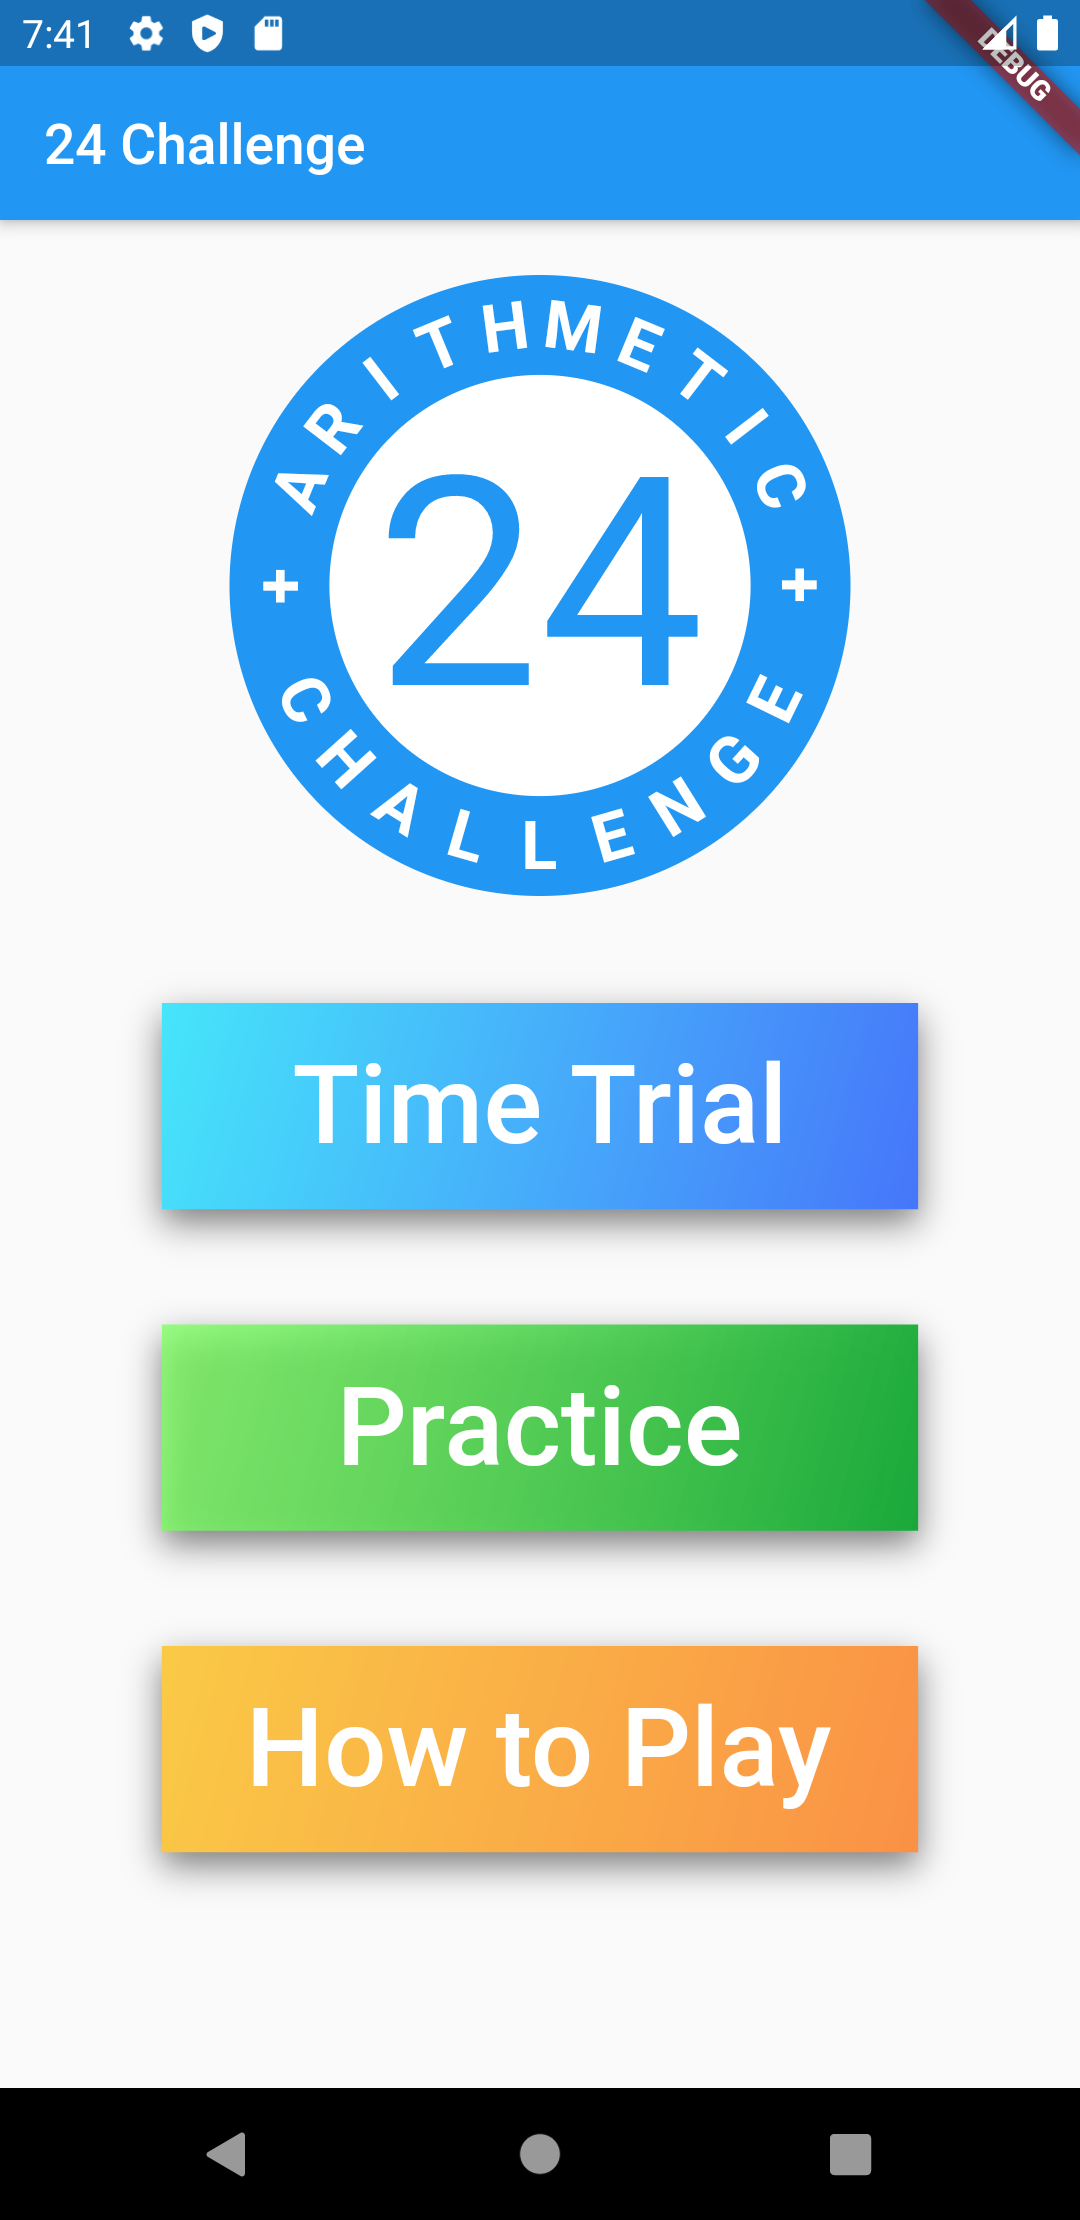
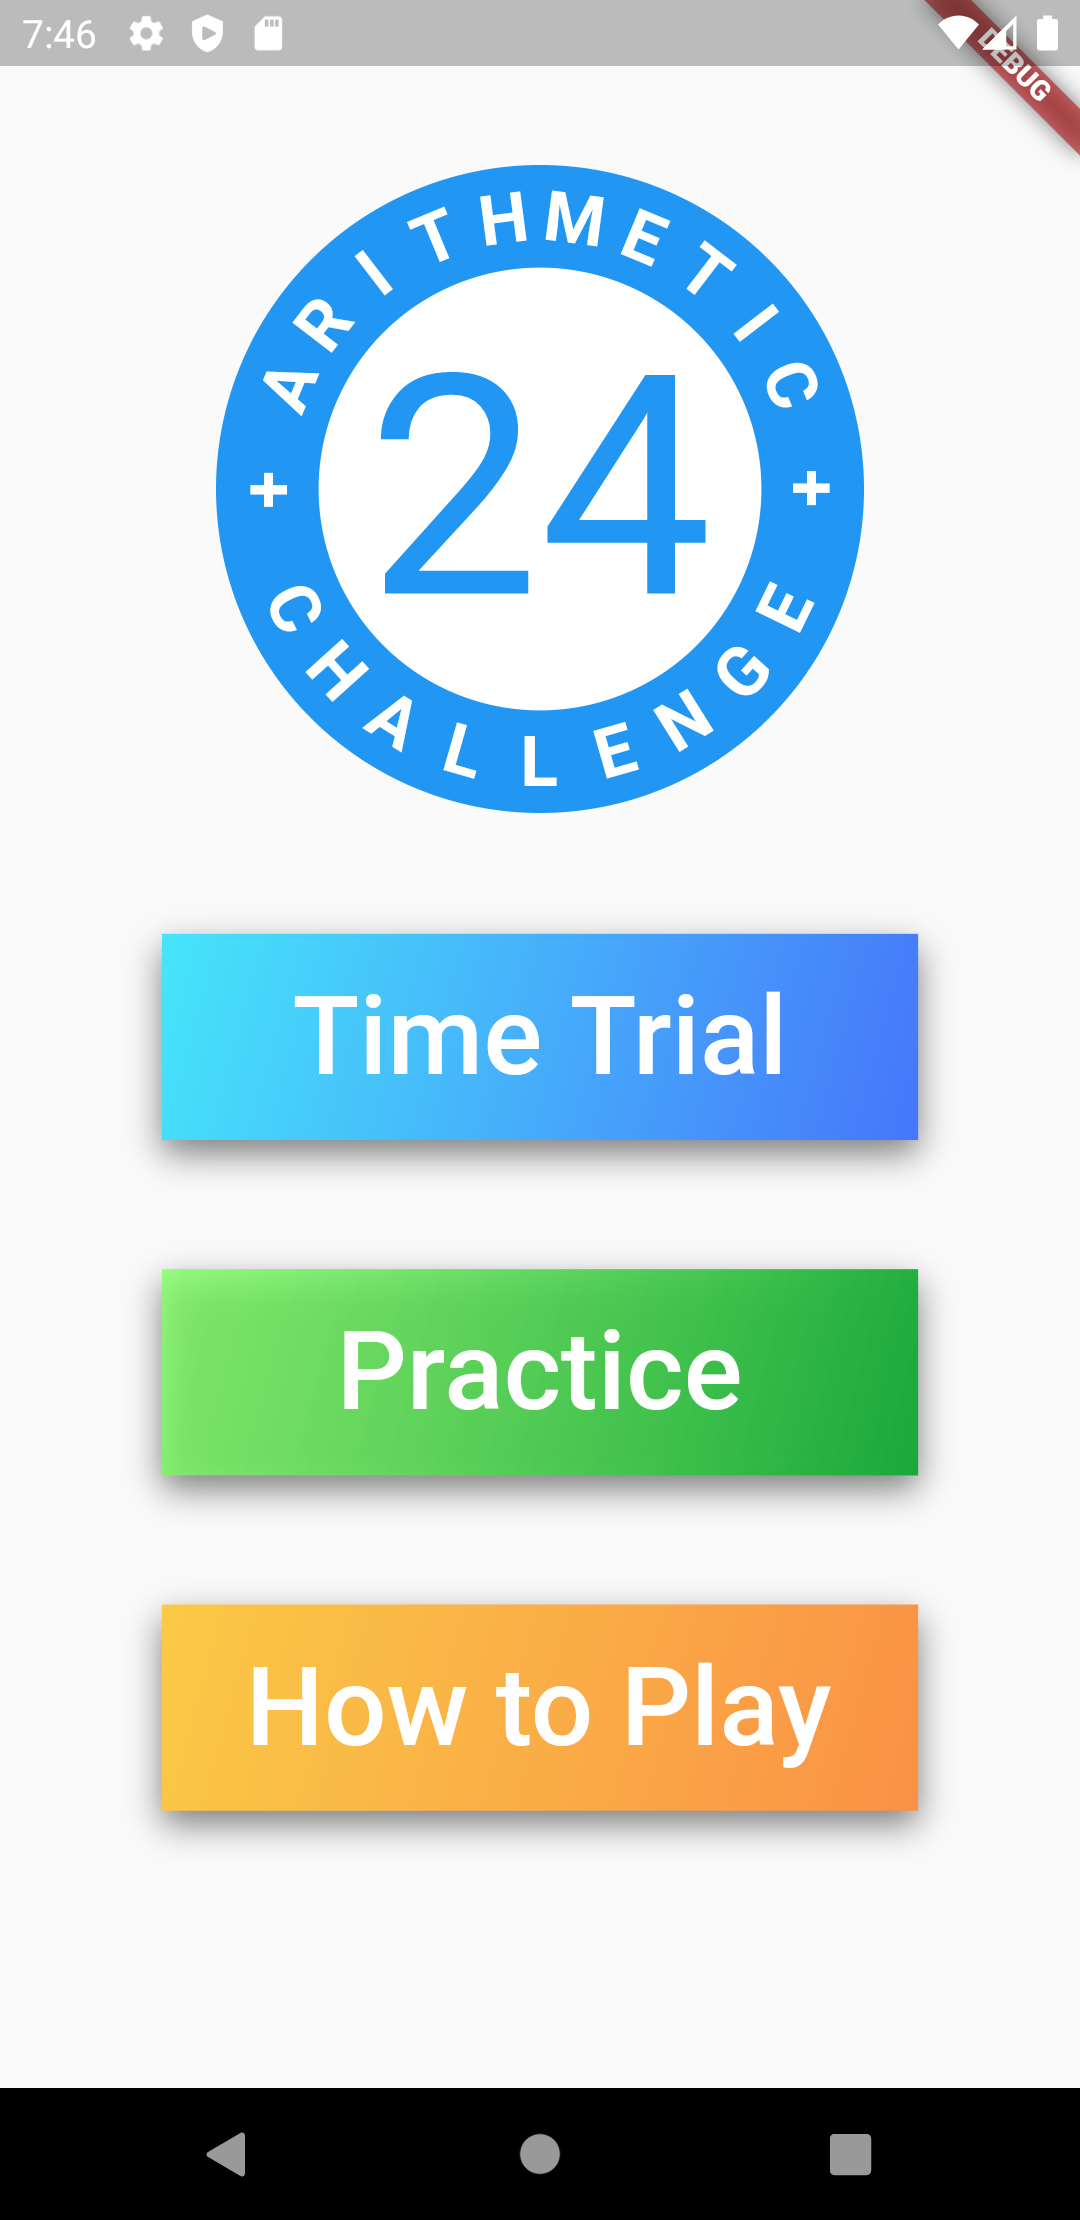
Minor update

diff --git a/lib/screens/home.dart b/lib/screens/home.dart
@@ -59,23 +59,20 @@ class _HomeTwoState extends State<HomeTwo> with TickerProviderStateMixin {
     }
 
     return Scaffold(
-      appBar: AppBar(
-        title: Text('24 Challenge'),
-      ),
       body: Container(
         width: _width,
         height: _height,
         child: Column(
           children: <Widget>[
             Padding(
-              padding: const EdgeInsets.only(top: 20.0, bottom: 5.0),
+              padding: const EdgeInsets.only(top: 60.0, bottom: 5.0),
               child: Stack(
                 alignment: Alignment.center,
                 children: <Widget>[
                   Container(
                     padding: EdgeInsets.all(4.0),
-                    width: _width * .575,
-                    height: _width * .575,
+                    width: _width * .6,
+                    height: _width * .6,
                     decoration: BoxDecoration(
                       shape: BoxShape.circle,
                       color: Colors.blue,
@@ -144,8 +141,8 @@ class _HomeTwoState extends State<HomeTwo> with TickerProviderStateMixin {
                     ),
                   ),
                   Container(
-                    width: _width *.39,
-                    height: _width*.39,
+                    width: _width *.41,
+                    height: _width*.41,
                     decoration: BoxDecoration(
                       shape: BoxShape.circle,
                       color: Colors.white,
